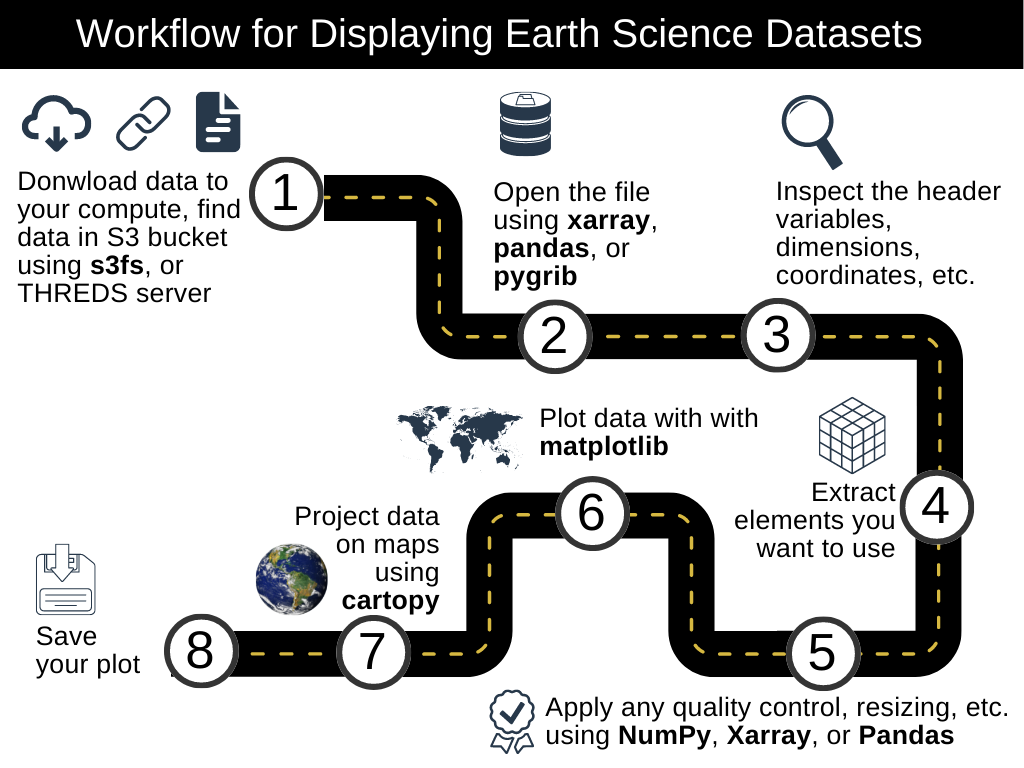
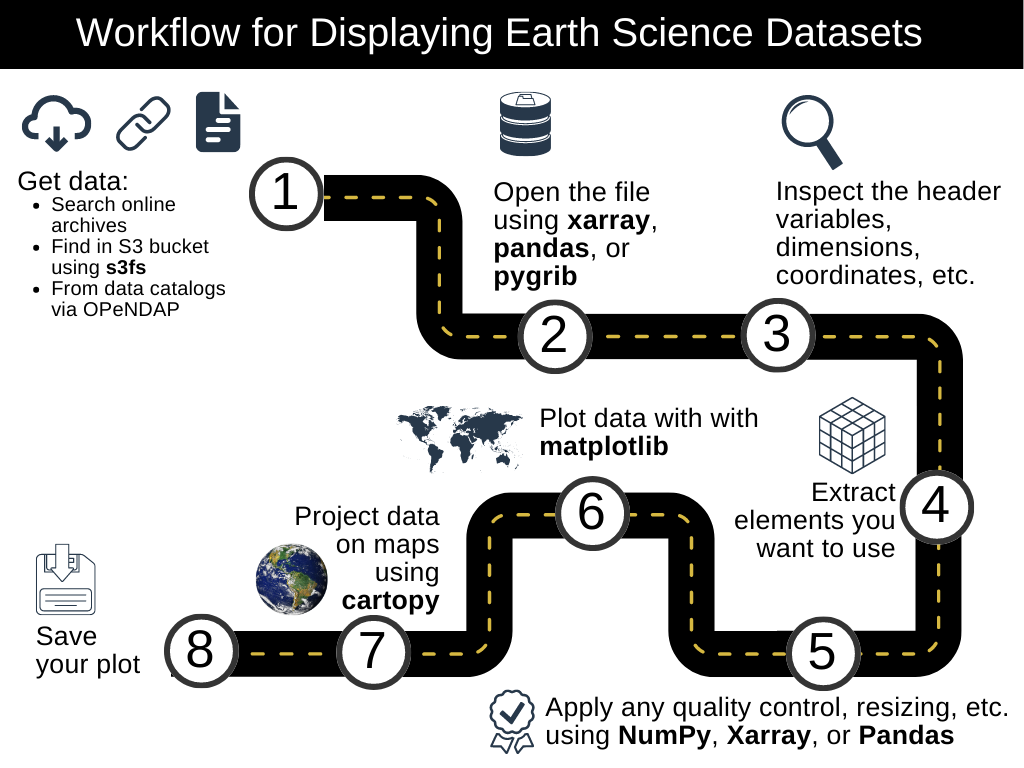
Fixing a few typos noticed during the course

diff --git a/LICENSE.md b/LICENSE.md
@@ -1,0 +1,21 @@
+The MIT License (MIT)
+
+Copyright (c) 2022 Rebekah Esmaili
+
+Permission is hereby granted, free of charge, to any person obtaining a copy
+of this software and associated documentation files (the "Software"), to deal
+in the Software without restriction, including without limitation the rights
+to use, copy, modify, merge, publish, distribute, sublicense, and/or sell
+copies of the Software, and to permit persons to whom the Software is
+furnished to do so, subject to the following conditions:
+
+The above copyright notice and this permission notice shall be included in all
+copies or substantial portions of the Software.
+
+THE SOFTWARE IS PROVIDED "AS IS", WITHOUT WARRANTY OF ANY KIND, EXPRESS OR
+IMPLIED, INCLUDING BUT NOT LIMITED TO THE WARRANTIES OF MERCHANTABILITY,
+FITNESS FOR A PARTICULAR PURPOSE AND NONINFRINGEMENT. IN NO EVENT SHALL THE
+AUTHORS OR COPYRIGHT HOLDERS BE LIABLE FOR ANY CLAIM, DAMAGES OR OTHER
+LIABILITY, WHETHER IN AN ACTION OF CONTRACT, TORT OR OTHERWISE, ARISING FROM,
+OUT OF OR IN CONNECTION WITH THE SOFTWARE OR THE USE OR OTHER DEALINGS IN THE
+SOFTWARE.
